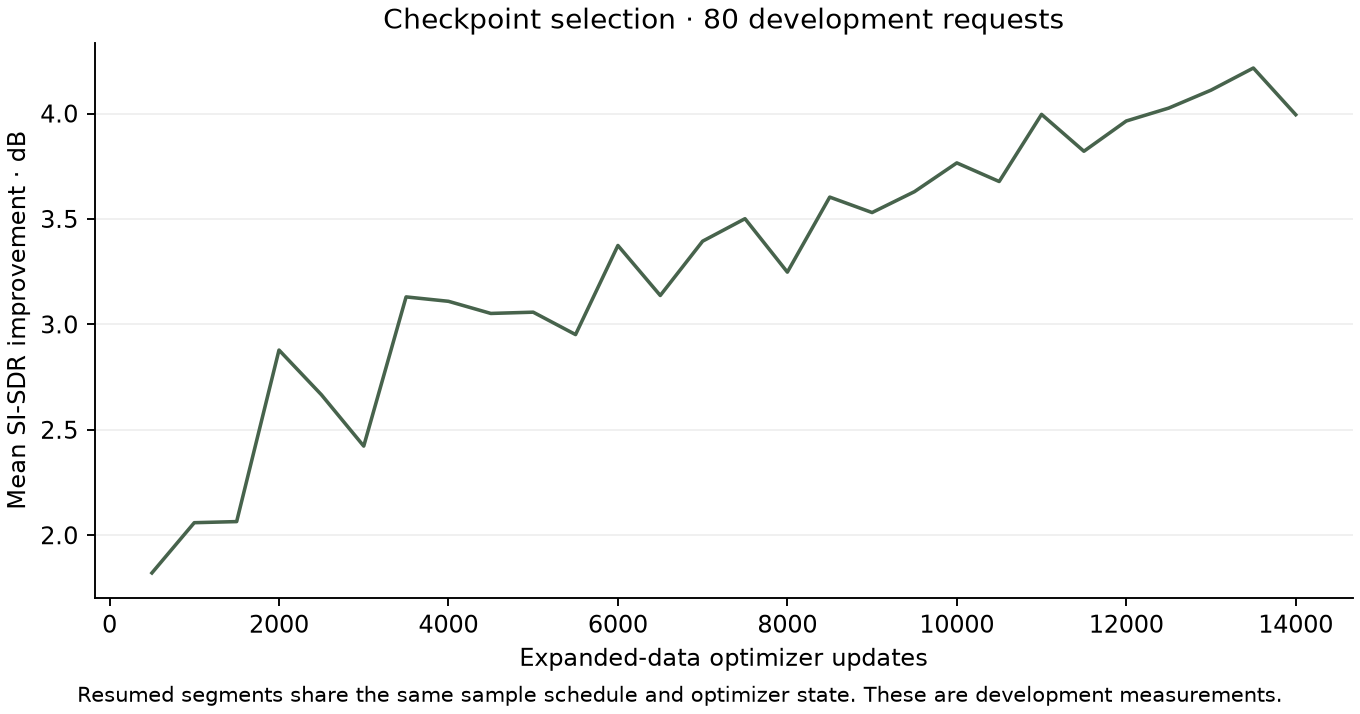
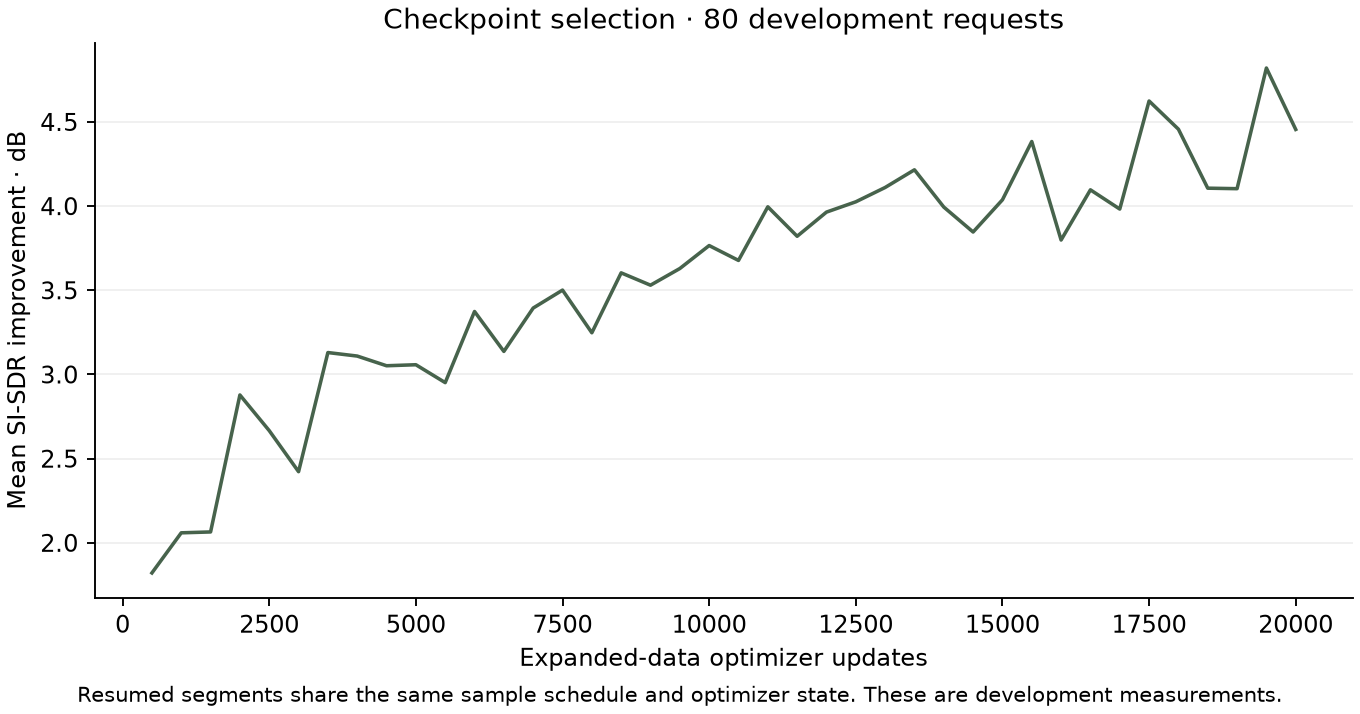
Show averaged model provenance and completed-run listening comparison

diff --git a/scripts/build_quality_report.py b/scripts/build_quality_report.py
@@ -143,7 +143,50 @@ Speech is from [LibriSpeech / OpenSLR 12](https://www.openslr.org/12), Panayotov
 See [quality reproduction](REPRODUCING_QUALITY.md) and the [development worklog](QUALITY_WORKLOG.md). The test freeze must remain immutable; subsequent test-informed changes need a new generalization protocol.
 """
     Path("docs/MODEL_CARD.md").write_text(card)
-    print("Built docs/MODEL_CARD.md from frozen quality-release evidence")
+    normalization = read("reports/quality-globalnorm-development.json")["summary"]
+    control = read("reports/quality-stft-expanded-fastlr-2000.json")["summary"]
+    study = f"""# Improving target-speaker extraction on one Mac
+
+The first One voice release had a working training/evaluation/API pipeline, but weak separation and audible artifacts. The user heard the competing voice become quieter without being adequately removed. The quality follow-up's frozen fresh test measures **{summary["mean_si_sdri_db"]:.3f} dB mean SI-SDR improvement**, versus {reports["baseline"]["summary"]["mean_si_sdri_db"]:.3f} dB for the original model on the same requests. Remaining failures are part of the result: {pct(summary["negative_improvement_fraction"])} of requests worsen and {pct(summary["confusion_fraction"])} trigger the confusion proxy.
+
+## Diagnose the signal path before redesigning the model
+
+A development audit found 58 of 400 original predictions above sample magnitude one. A uniform attenuation guard fixes that playback risk without changing relative speaker levels. However, the first 20 original gallery outputs were already below full scale. Four-second gallery requests bypass chunking, float WAV round-trips preserved samples, and a CPU/MPS comparison was numerically close. Those checks did not support treating clipping or serialization as the sole explanation for the reported static. [Audio diagnosis](QUALITY_IMPROVEMENT.md).
+
+Fixed cleanup filters and a matched additional-training comparison with spectral loss produced modest gains. Increasing mask strength suppressed more interference while damaging intelligibility. These experiments discouraged treating quieter background audio as sufficient evidence of better extraction.
+
+## Rebuild the learning experiment and preserve an independent test
+
+The new candidate uses independently implemented reference-conditioned temporal convolutions over an STFT, with a bounded real mask and inverse transform. Its reference encoder is learned within this project. Joint speaker classification, waveform and multi-resolution spectral objectives supplement target-specific SI-SDR. Expanded training draws from 231 speakers and 90.582 eligible source hours, using four-second mixtures and separate five-second references.
+
+The original test had already been opened. Twenty previously unused train-clean-100 identities were therefore reserved before expanded training, while the same 40 dev-clean identities continued to guide development. Final selection binds exact model, inventory and recipe hashes before the new 1,000-request test. These are custom LibriSpeech mixtures, not official Libri2Mix results.
+
+The principal development changes combine architecture, speaker supervision, crop length, data diversity and training exposure. Their aggregate improvement cannot be attributed to one component. A model small enough for local experiments remains a hypothesis, not evidence that the published research recipe has been reproduced.
+
+## Check the research assumptions explicitly
+
+The [research audit](RESEARCH_AUDIT.md) compares the implementation with SpeakerBeam, SpEx, Conv-TasNet and the enrollment-augmentation study. It identifies substantial substitutions, including the small reference encoder, per-frame separator normalization, real mixture-phase masks, custom augmentation and much shorter training schedule. No external model weights or SpeakerBeam implementation enter the core.
+
+A source-informed diagnostic reaches 14.559 dB with the same bounded-mask format. This uses unavailable clean targets, so it is not deployable performance or a guaranteed learning ceiling. It demonstrates representational headroom and helps distinguish output-format restrictions from imperfect mask prediction.
+
+A separate 2,000-update normalization adaptation matches initialization tensors, fresh classifier, seed, data sequence, losses and optimizer. Changing only separator normalization gives {normalization["mean_si_sdri_db"]:.3f} dB / {normalization["mean_estoi"]:.4f} ESTOI, versus {control["mean_si_sdri_db"]:.3f} dB / {control["mean_estoi"]:.4f} for the matched per-frame control on 400 development requests. The starting weights were already trained with per-frame normalization, so this short comparison cannot settle which architecture is better when trained from scratch. The global variant also requires whole-clip inference because its statistics span time.
+
+The main expanded run completed 20,000 updates. The predeclared final-three and final-five checkpoint averages were scored alongside its best single checkpoint. Final selection and all compared report identities are retained in the [freeze](../reports/quality-v2-selection.json). {averaging_note}
+
+## Measure the delivered result
+
+{chr(10).join(table)}
+
+The paired separation gain is {gain["mean_candidate_minus_baseline"]:+.3f} dB, with approximate 95% interval [{gain["paired_ci95"][0]:.3f}, {gain["paired_ci95"][1]:.3f}]. The [model card](MODEL_CARD.md) specifies metrics, uncertainty, failure slices, runtime and artifact identities. The original [case study](CASE_STUDY_V0_1.md) remains available separately; its opened test was not relabeled as unseen.
+
+The service and evaluator share decoding, normalization, prediction, peak handling and float-WAV output. Long-file checks verify duration and the applicable inference strategy. Training uses deterministic sample seeds, atomic resumable checkpoints and provenance records; compiled temporal layers were numerically checked before use on MPS. Exact CPU resume has regression coverage. Code and metadata are public, while audio and weights remain local.
+
+The [comparison gallery](http://127.0.0.1:8000/gallery/quality-progress/) contains examples chosen by manifest order and separately labeled matched-RMS playback. ESTOI predicts intelligibility and the distortion projection is a proxy; neither constitutes a human judgment that static is gone. The model remains experimental for two target-present voices in recorded audio. Real microphones, reverberation, background noise, target absence and broader language/domain transfer require their own evidence.
+
+[Reproduce the quality experiments](REPRODUCING_QUALITY.md).
+"""
+    Path("docs/CASE_STUDY.md").write_text(study)
+    print("Built current model card and case study from frozen quality-release evidence")
 
 
 if __name__ == "__main__":

diff --git a/src/tse/inference.py b/src/tse/inference.py
@@ -41,6 +41,7 @@ class Extractor:
             "training_updates": self.payload["step"],
             "training_updates_scope": "This training run; initialization may include earlier project training",
             "initialization": self.payload.get("provenance", {}).get("initialization"),
+            "checkpoint_average": self.payload.get("provenance", {}).get("checkpoint_average"),
             "architecture": self.config.model.family,
             "separation_normalization": self.config.model.separation_normalization,
             "inference_strategy": "whole_clip_global_normalization"
